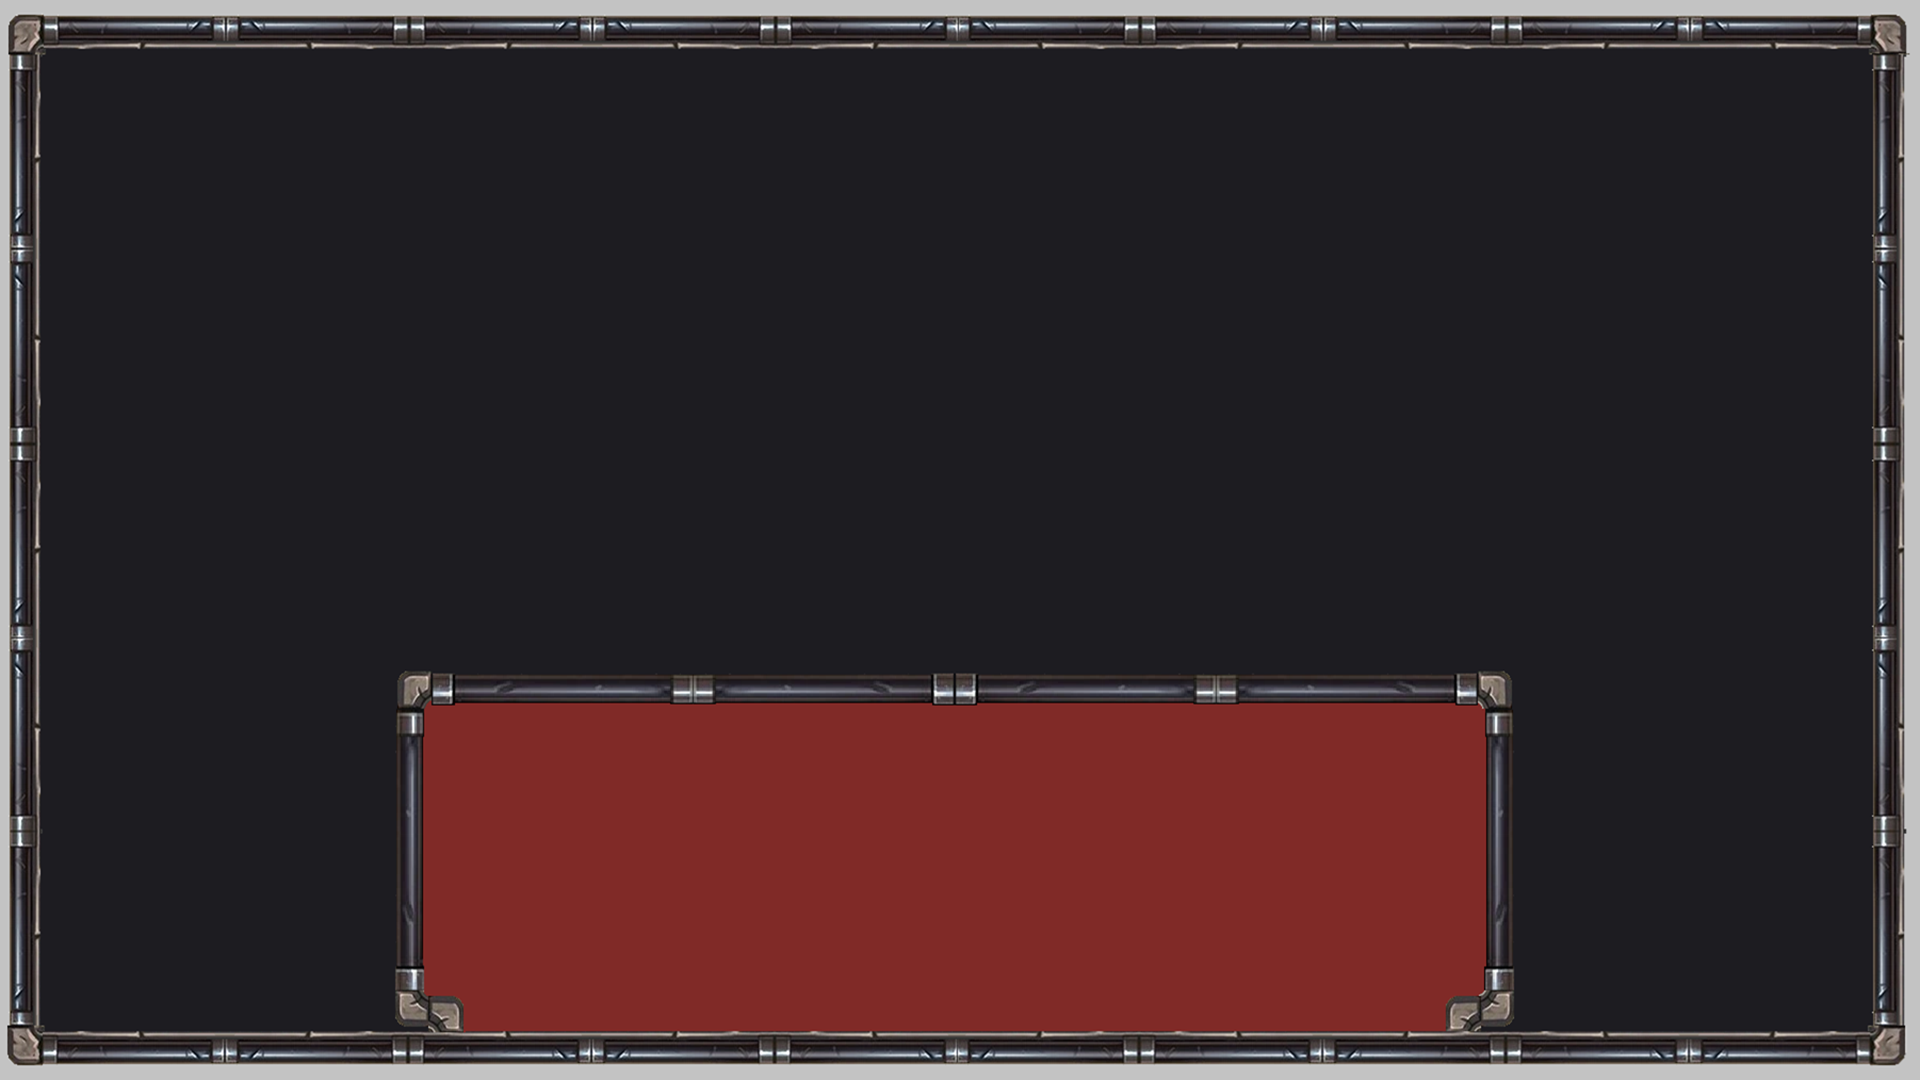
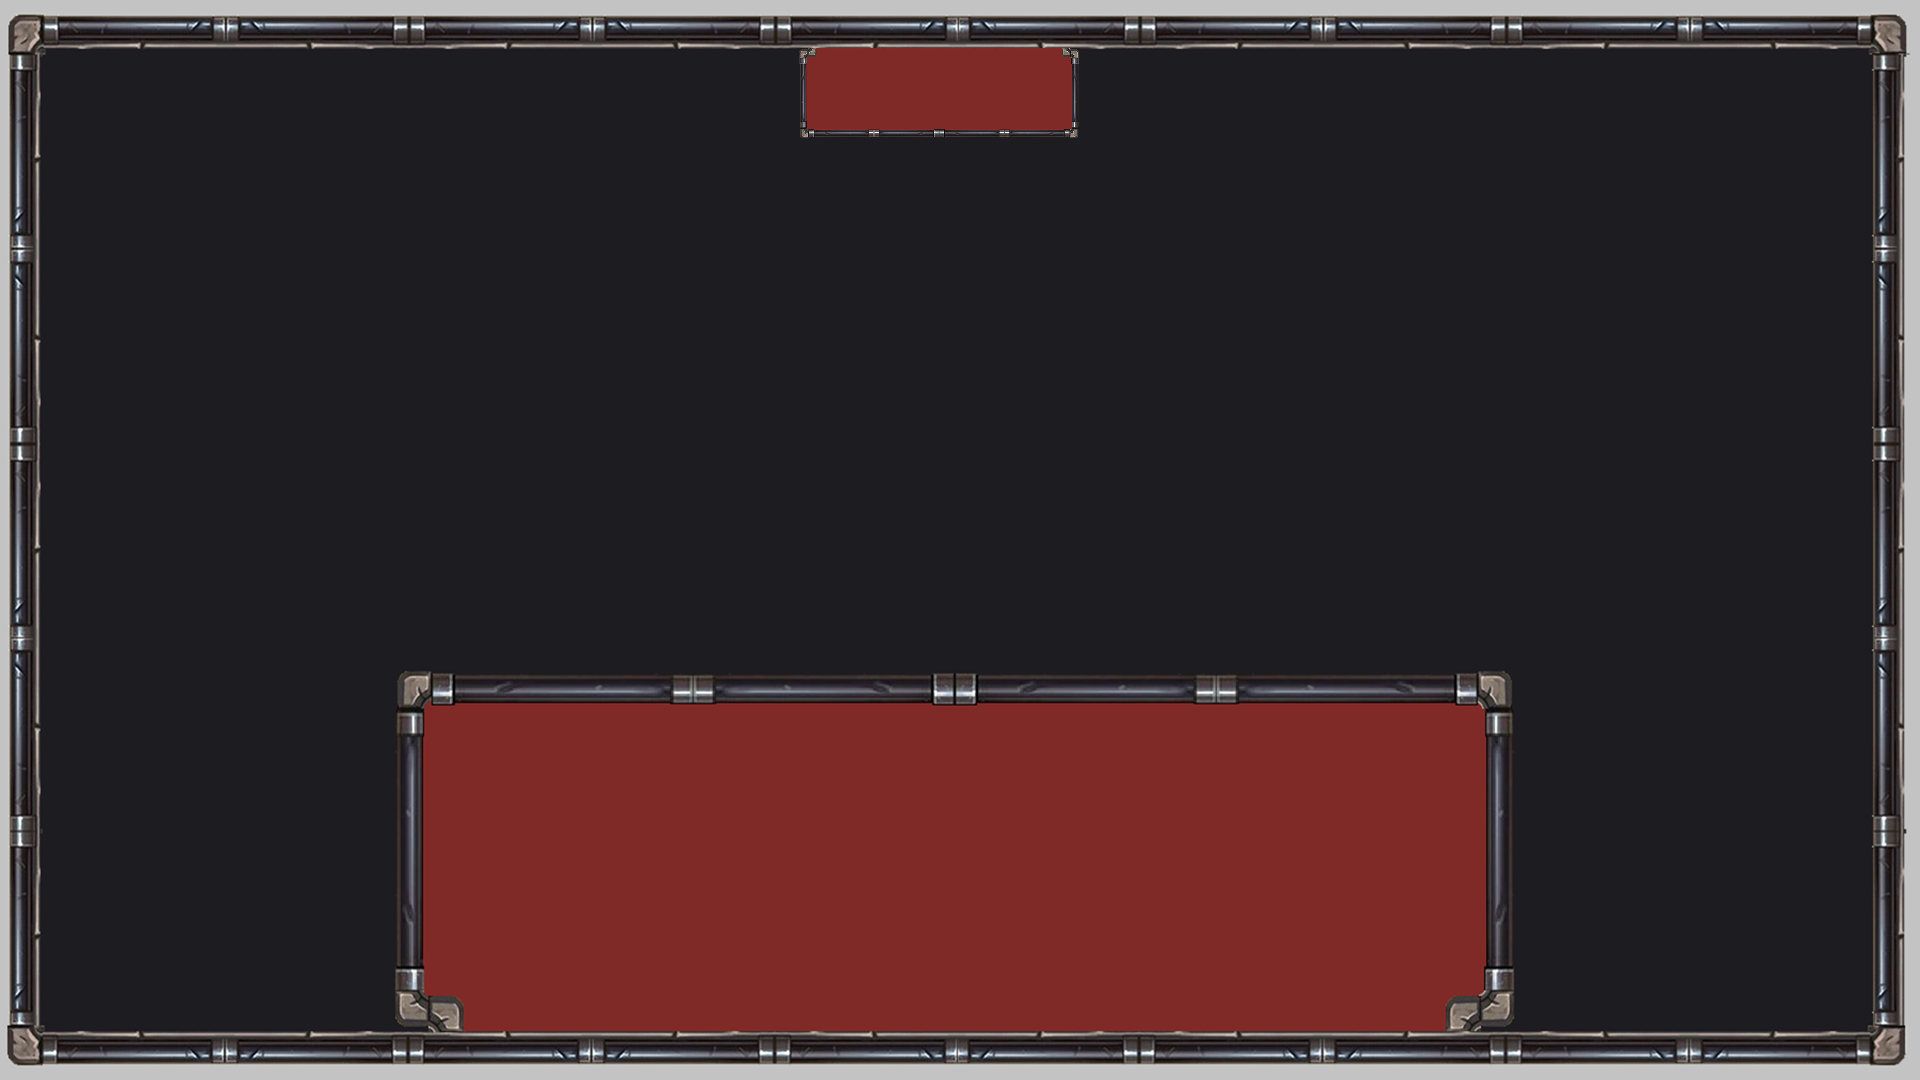
Score Render

Changed region(s): [[0.4062, 0.0306, 0.5625, 0.1528]]

diff --git a/src/Player.cpp b/src/Player.cpp
@@ -1,12 +1,17 @@
 #include "Player.h"
 #include <iostream>
 #include <math.h>
+#include <format>
 
 using namespace std;
 
 Player::Player(const string& name) : 
 	playerName(name)
 {
+	fontScore.loadFromFile("media/Sansation.ttf");
+	textScore.setFont(fontScore);
+	textScore.setCharacterSize(50);
+	textScore.setPosition(900, 60);
 }
 
 void Player::getDefuseCard(Deck& deck) {
@@ -88,6 +93,12 @@ void Player::renderHand(sf::RenderWindow& window) const
 		card->render(window, position);
 		position.x += 800 / static_cast<float>(hand.size());
 	}
+}
+
+void Player::renderScore(sf::RenderWindow& window)
+{
+	textScore.setString(to_string(score));
+	window.draw(textScore);
 }
 
 void Player::renderPlayedCard(sf::RenderWindow& window) const

diff --git a/src/Player.h b/src/Player.h
@@ -17,6 +17,9 @@ private:
 	std::vector<std::unique_ptr<Card>> hand;
 	std::vector<std::unique_ptr<Card>> lastPlayedCards;
 
+	sf::Font fontScore;
+	sf::Text textScore;
+
 public:
 	/**
 	* \brief Constructor of the Player class
@@ -60,7 +63,7 @@ public:
 	* \param window : sf::RenderWindow&
 	*/
 	void renderHand(sf::RenderWindow& window) const;
-	
+	void renderScore(sf::RenderWindow& window);
 	void renderPlayedCard(sf::RenderWindow& window) const;
 
 	void addPoints(int points) { score += points; };

diff --git a/src/Game.cpp b/src/Game.cpp
@@ -118,6 +118,7 @@ void Game::render()
 	{
 		deck.render(mWindow);
 		player.renderHand(mWindow);
+		player.renderScore(mWindow);
 		player.renderPlayedCard(mWindow);
 	}
 	mWindow.draw(mStatisticsText);
